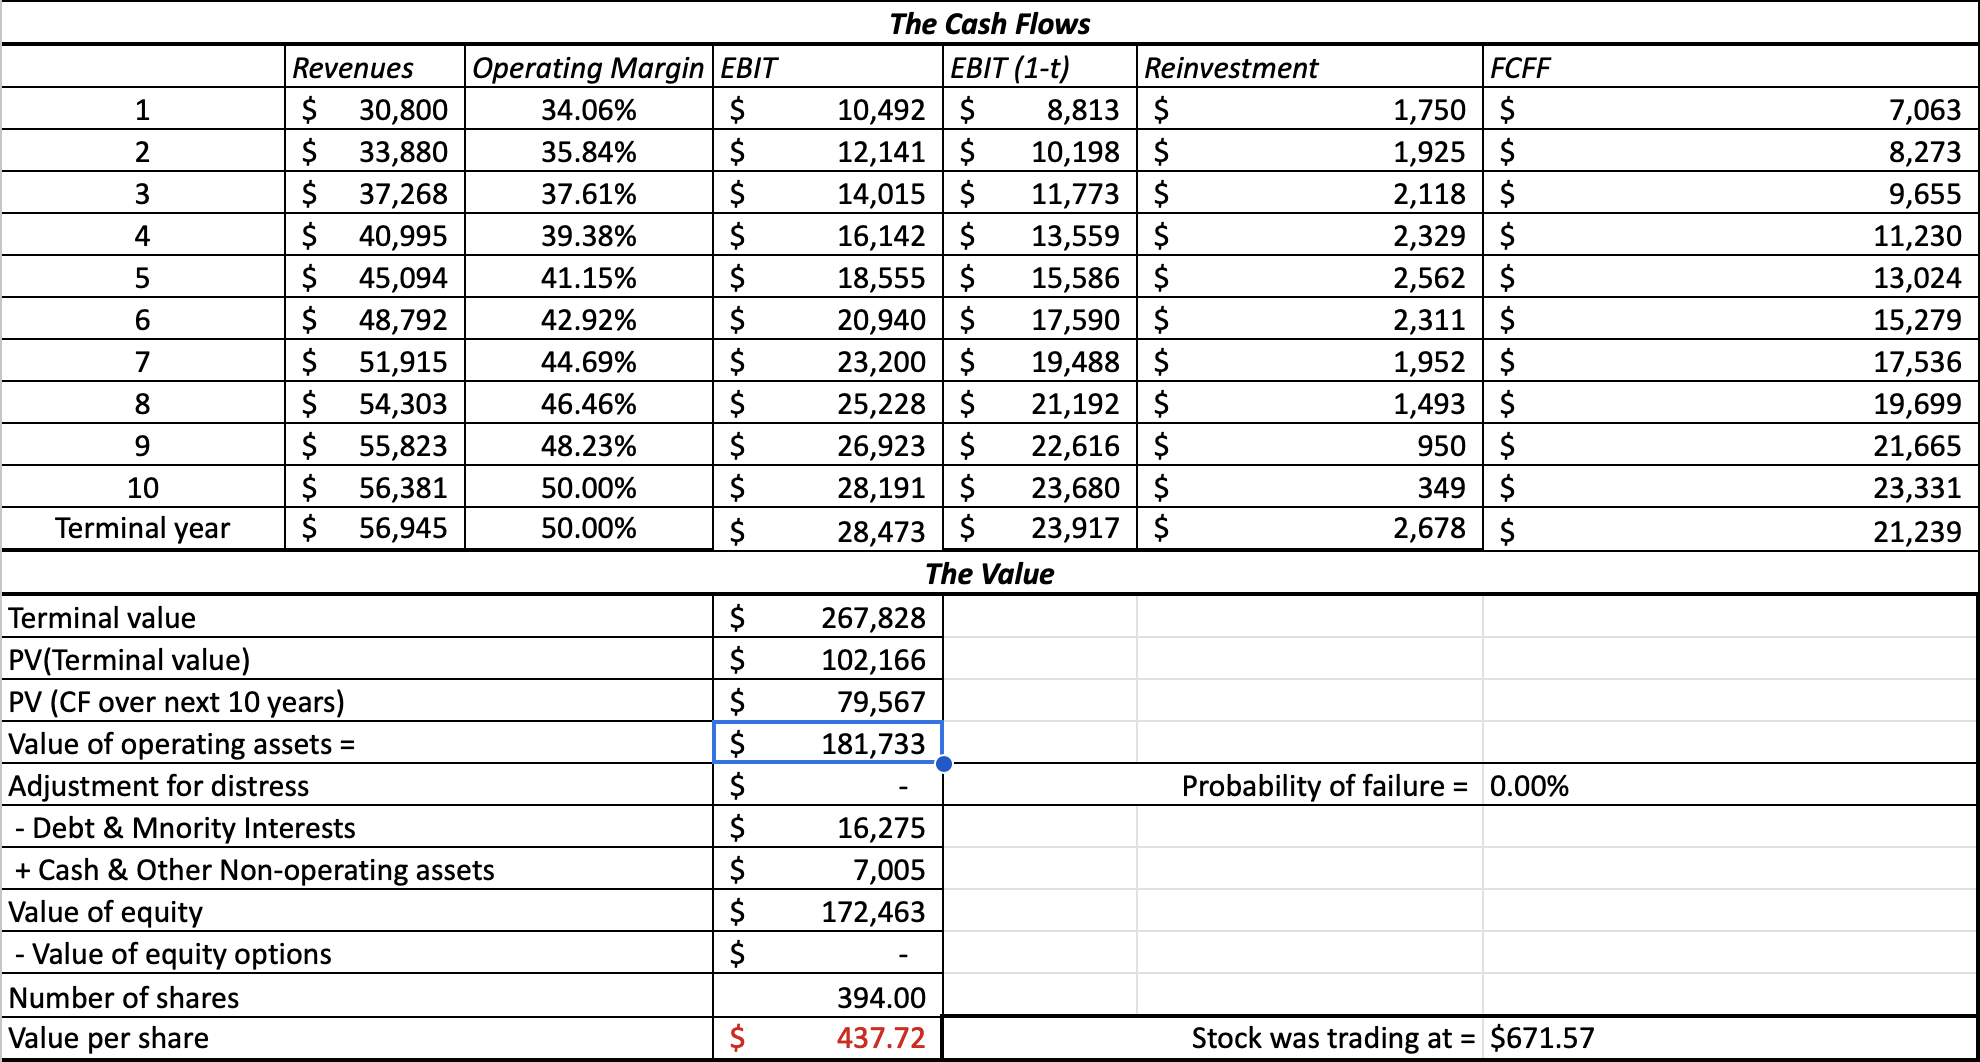
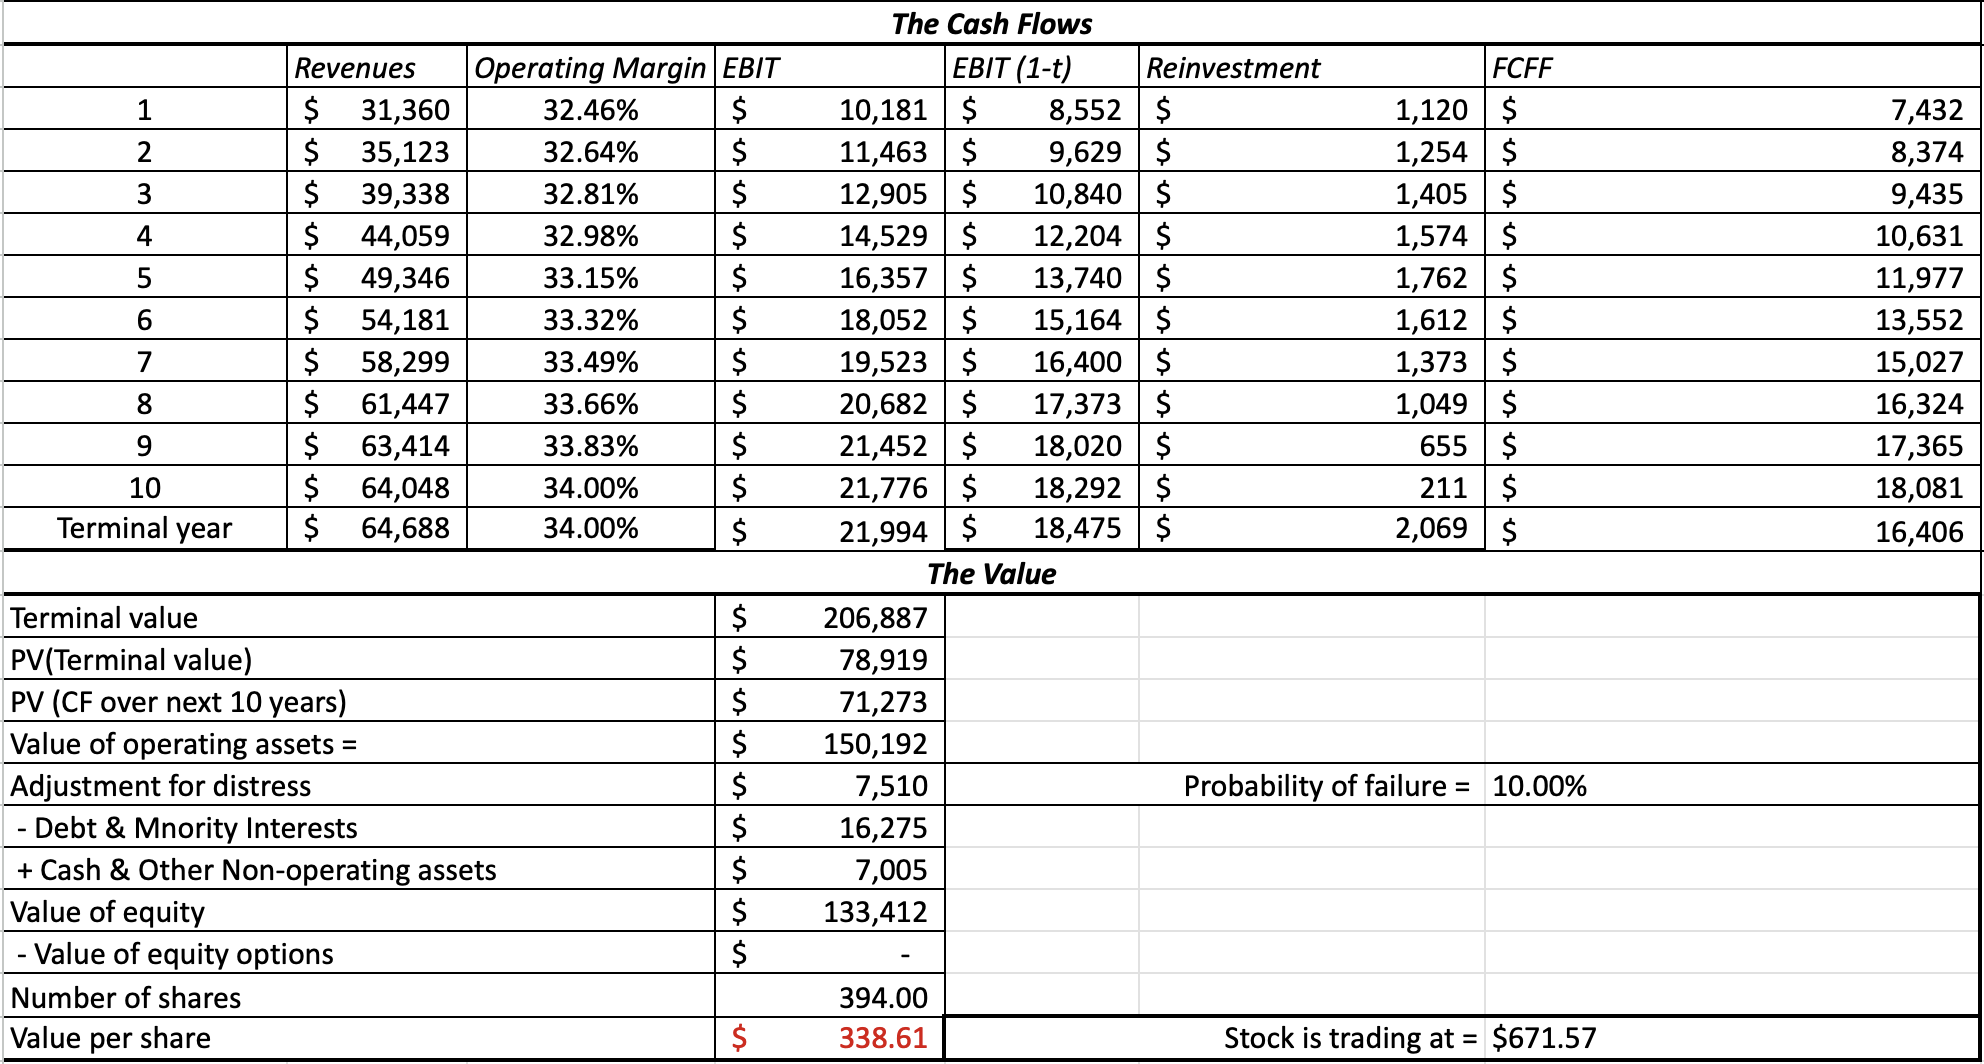
blog

diff --git a/articles/ASML.html b/articles/ASML.html
@@ -40,7 +40,7 @@
              This was due to its reduced 2025 projected revenue from €30-40B to €30-35B.
              With predicted total net sales between €8.8 and €9.2 Billion in Q4, 
              ASML will be growing marginally YoY.
-             Revenue from logic (EUV) and memory (ArFi) will remain constant, with a ~10% increase
+             Revenue from logic (EUV) and memory (ArFi) will remain constant YoY, with a ~10% increase
              in machine servicing,
              revealing that fabs are choosing to use their existing equipment until upgrading to the newest generation. 
 
@@ -87,7 +87,8 @@
                
             ASML sits at the very base of the semiconductor value chain and therefore takes the longest for 
             demand changes to hit the bottom line of ASML’s business. 
-            The recent price action is a correction from the AI infrastructure build outs during 2024 to a more realistic multiple to trade at.
+            The recent price action is a correction from the high multiples ASML was trading 
+            at stemming from the speculation of AI related companies.
             </p>
         </div>
         <div style="text-align: center;">
@@ -101,13 +102,17 @@
             <p>
                
             Amid the significant investment into AI technologies over the last 2 years, companies positioned to capture value in AI stack have captured immense value. 
+            There is evidence pointing to continued investment into this domain in 2025 and ASML is positioned to benefit.
 
             </p>
         </div>
         <div class="text" style="font-size: 20px;">
             <p>
                
-            At the top of the food chain, you have the American hyperscaler companies which operate data centers which much of the world's computing runs on. After Q3 reports for MSFT, AMZN, and META showed impressive earnings amid large CapEx spends for AI infrastructure, CapEx estimates for 2025 are north of $200B. Majority of this spending is in datacenters, where ~75% of CapEx is AI accelerator chips. 
+            At the top of the food chain, you have the American hyperscaler companies which operate data centers which much of the world's computing runs on. After 
+            Q3 reports for MSFT, AMZN, and META showed impressive earnings amid large CapEx spends for 
+            AI infrastructure, CapEx estimates for 2025 are north of $200B. Majority of this spending is 
+            in datacenters, where ~75% of CapEx is AI accelerator chips. 
 
 
             </p>
@@ -152,6 +157,23 @@
             </p>
         </div>
 
+        <h3 style="text-align: center;"> Value per Share</h3>
+
+        <div class="text" style="font-size: 20px;">
+            <p>
+                For this model I chose a conservative growth rate of 12% considering
+                ASML's' CAGR of 17.5% from 2014 to 2023.
+                This model suggests ASML is overvalued relative to its future cash flows, as the calculated intrinsic 
+                value is below the current stock price. This discrepancy implies that the market is pricing in continued 
+                high growth and innovation, which ASML would need to achieve consistently to justify its current valuation. 
+            </p>
+            
+        </div>
+        <div style="text-align: center;">
+            <img src="../imgs/DCF.png" alt="growth" style="height: auto; width: 900px; padding-right: 40px;">
+        </div>
+
+
 
         <h3 style="text-align: center;"> ASML Financial Health</h3>
 
@@ -185,10 +207,8 @@
             </p>
             
         </div>
-        <h3 style="text-align: center;"> Value per Share</h3>
-        <div style="text-align: center;">
-            <img src="../imgs/DCF.png" alt="growth" style="height: auto; width: 900px; padding-right: 40px;">
-        </div>
+
+
         <h3 style="text-align: center;"> Comparable Analysis</h3>
         <div class="text" style="font-size: 20px;">
             <p>
@@ -264,6 +284,7 @@
                 ASML is a company that isn't leaving the picture anytime soon. Their machines underpin
                 a great deal of the global economy. I am looking for the oppurtunity to add this to my portfolio 
                 to add exposure to AI growth but hedge some of the risk with a business model that supplies many industries. 
+
             </p>
             
         </div>
